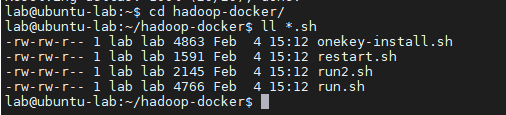
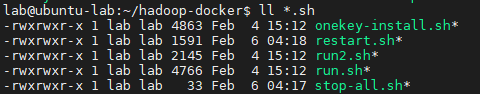
添加stop-all.sh

diff --git a/README.md b/README.md
@@ -4,7 +4,7 @@
 
 [Oringina-README](./README-oringinal.md)
 
-较 [azkasbt](https://github.com/fankaljead/hadoop-docker/tree/azkasbt) 添加了对 `phoenix` `maven` 的支持
+本分支较分支 [azkasbt](https://github.com/fankaljead/hadoop-docker/tree/azkasbt) 添加了对 `phoenix` `maven` 的支持
 
 
 
@@ -75,6 +75,8 @@ chmod +x *.sh
 |                   |                                    | `./onekey-install.sh`                                        |
 | restart.sh        | 虚拟机重启之后使用                 | 首先进入hadoop-docker目录                                    |
 |                   |                                    | 然后执行`restart.sh`                                         |
+| stop-all.sh       | 停止所有组件及容器                 | 首先进入hadoop-docker目录                                    |
+|                   |                                    | 然后执行`./stop-all.sh`                                      |
 
 - 安装 hadoop-docker 实验平台
 
